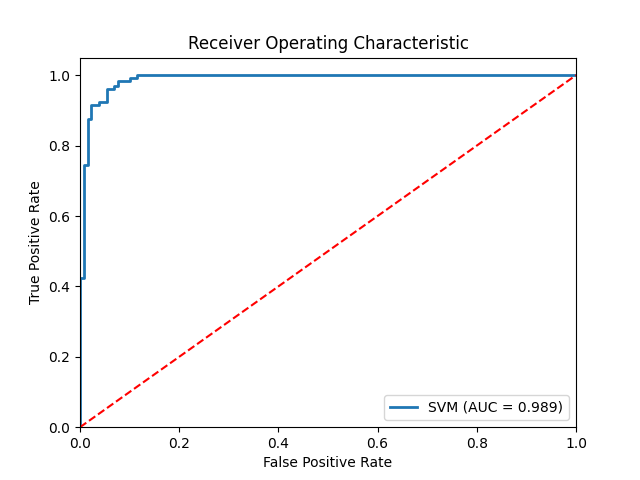
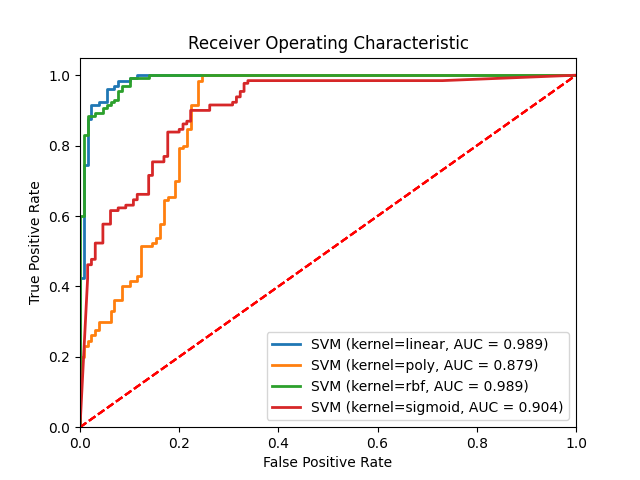
[edit] Added the possibility to train the svm using different kernel to find the best suitable solution for spam classification

diff --git a/spam_detection/assignment/models/svm_classifier.py b/spam_detection/assignment/models/svm_classifier.py
@@ -12,32 +12,47 @@ from utils.data_analysis import prepare_data, save_plot, compute_plot_roc_curve,
 
 # Initialize parameters used for the experiment
 performance_metrics = []
+kernels = ['linear', 'poly', 'rbf', 'sigmoid']
 reports = {}
 
-def run_svm(X_train, y_train, X_test, y_test):
 
-    print("Running Support Vector Machine with linear kernel")
+def run_svm(X_train, y_train, X_test, y_test, kernels):
+    best_recall = 0
+    best_k = None
+    best_fpr, best_tpr = None, None
+    best_roc_auc = None
 
-    # Initialize and train the SVM model
-    svm_clf = SVC(kernel='linear', probability=True)
-    svm_clf.fit(X_train, y_train)
+    print(f"Running Support Vector Machine with different kernels: {kernels}")
 
-    # Predict probabilities for ROC AUC
-    y_test_prob = svm_clf.predict_proba(X_test)[:, 1]
+    for kernel in kernels:
 
-    # Predict the labels for the test set
-    y_test_pred = svm_clf.predict(X_test)
+        # Initialize and train the SVM model
+        svm_clf = SVC(kernel=kernel, probability=True)
+        svm_clf.fit(X_train, y_train)
 
-    # Calculate metrics
-    report = classification_report(y_test, y_test_pred, output_dict=True)
+        # Predict probabilities for ROC AUC
+        y_test_prob = svm_clf.predict_proba(X_test)[:, 1]
 
-    # Generate and plot the ROC curve using probabilities
-    fpr, tpr, _ = roc_curve(y_test, y_test_prob)
-    roc_auc = roc_auc_score(y_test, y_test_prob)
+        # Predict the labels for the test set
+        y_test_pred = svm_clf.predict(X_test)
 
-    compute_plot_roc_curve(fpr, tpr, f'SVM (AUC = {roc_auc:.3f})')
+        # Generate and plot the ROC curve using probabilities
+        fpr, tpr, _ = roc_curve(y_test, y_test_prob)
+        roc_auc = roc_auc_score(y_test, y_test_prob)
 
-    reports['Linear'] = report
+        compute_plot_roc_curve(fpr, tpr, f'SVM (kernel={kernel}, AUC = {roc_auc:.3f})')
+
+        # Calculate metrics
+        report = classification_report(y_test, y_test_pred, output_dict=True)
+        recall = report['1']['recall']
+        if recall > best_recall:
+            best_recall = recall
+            best_kernel = kernel
+            best_fpr = fpr
+            best_tpr = tpr
+            best_roc_auc = roc_auc
+
+        reports[kernel] = report
 
     save_path = 'resources/svm_roc_curve.png'
     save_plot(save_path)
@@ -46,13 +61,16 @@ def run_svm(X_train, y_train, X_test, y_test):
     result_df = aggregate_classification_reports(reports)
     display_classification_reports(result_df)
 
-    return report['1']['recall'], fpr, tpr, roc_auc
+    return best_recall, best_fpr, best_tpr, best_roc_auc, best_kernel
+
 
 if __name__ == '__main__':
-    # Load the training and testing datasets
-    df_train = vectorization('../../dataset/train-mails', 2000)
-    df_test = vectorization('../../dataset/test-mails', 2000)
+    PATH = '../../dataset/'
+
+    # Vectorize the training and testing the datasets with different models
+    df_train = vectorization(PATH + 'train-mails', 2000)
+    df_test = vectorization(PATH + 'test-mails', 2000)
 
     # Prepare the data for training and testing
     X_train, y_train, X_test, y_test = prepare_data(df_train, df_test)
-    run_svm(X_train, y_train, X_test, y_test)
+    run_svm(X_train, y_train, X_test, y_test, kernels)
